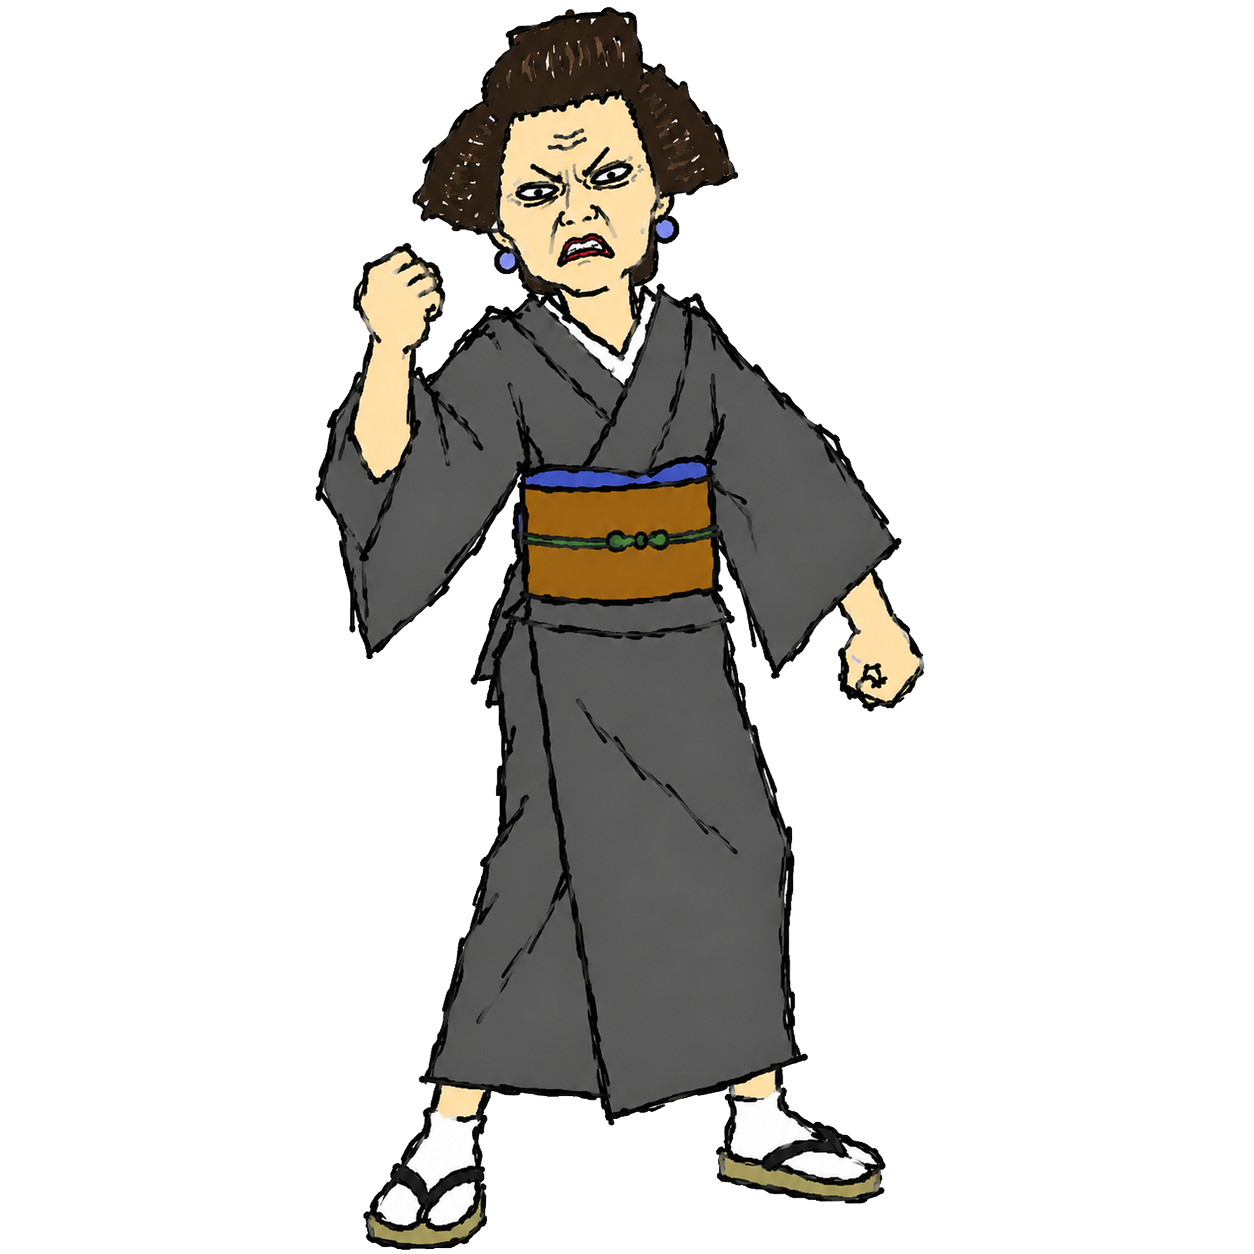
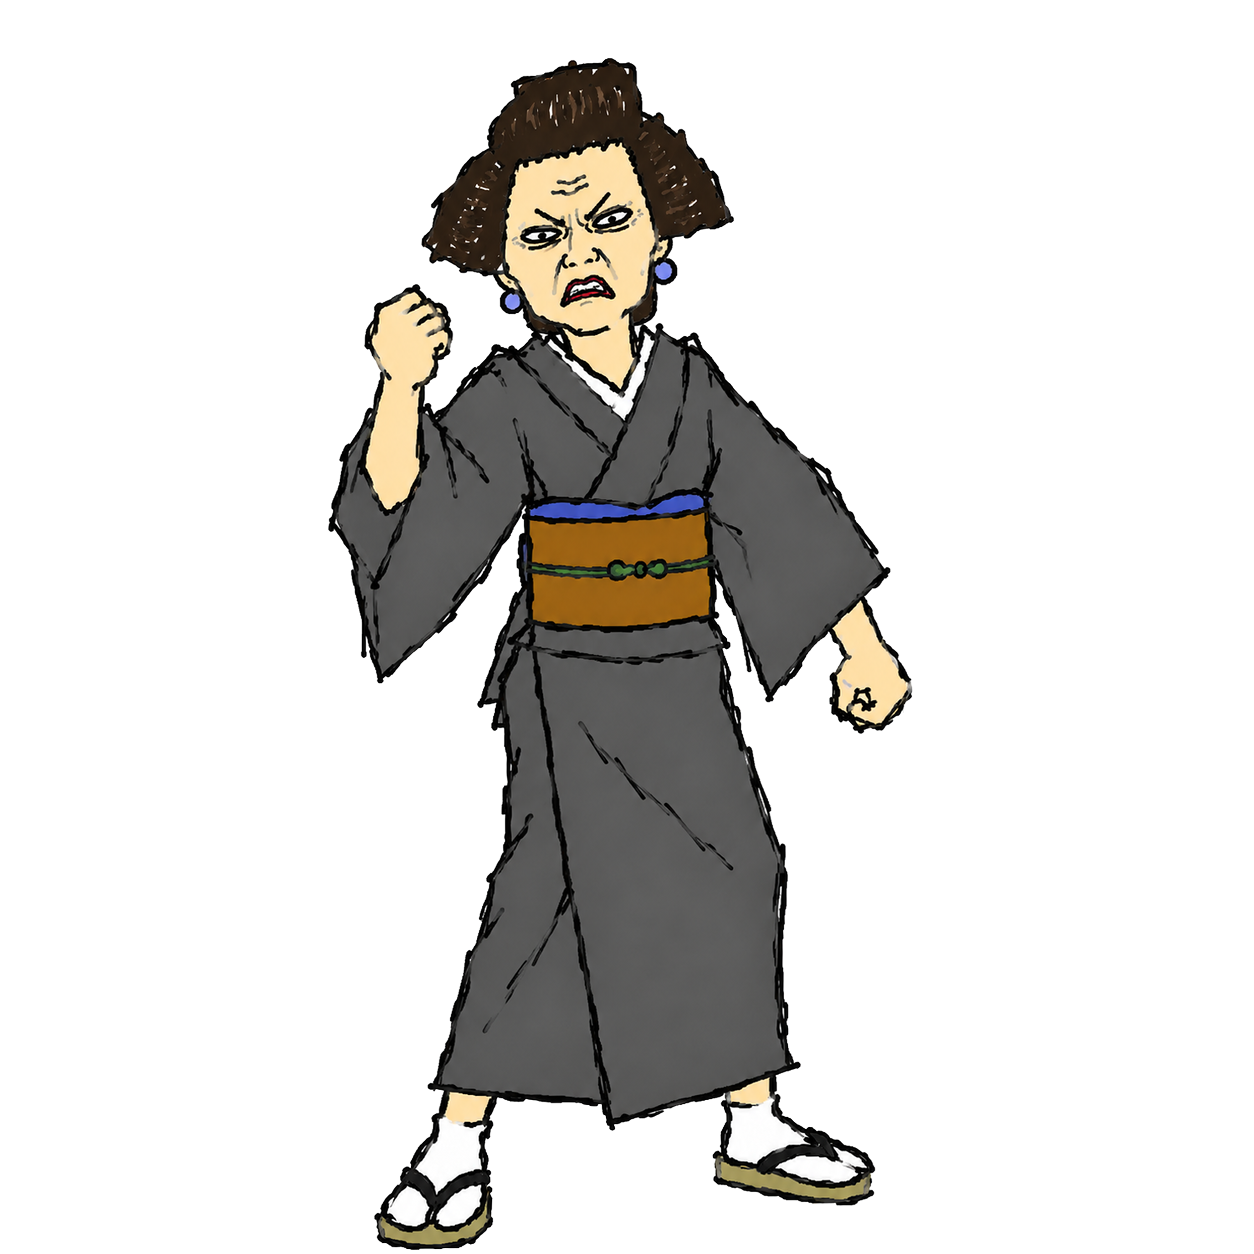
debt-commission: 定春、登勢、新八的第一章表情圖
- 定春 smile／cry／smug、登勢 smile／thinking／smug／annoyed（叉腰）／sit_serious／sit_talking、新八 broken（和 panic 同一張）
- 生成原圖移到 art_src/expressions/（.gdignore，不進 Web 匯出）
- fit_expressions.gd：單張表情可寫 {"file", "rescale"}，給把角色畫得比其他張大的坐姿用，並排除在身高中位數之外
- EXPRESSIONS.md 新增 sit_serious、sit_talking 與 rescale 說明

Changed region(s): [[0.2488, 0.0, 0.7464, 1.0], [0.4354, 0.6842, 0.4665, 0.7464]]

diff --git a/docs/story-telling-game/EXPRESSIONS.md b/docs/story-telling-game/EXPRESSIONS.md
@@ -1,6 +1,6 @@
 # 角色表情清單（美術製作）
 
-更新：2026-09-28。劇本用表情 id 標出角色當下的臉（`char("kagura", "angry", "right")` 或台詞後面加 `[#angry]`），遊戲依 id 換成那張圖；還沒有圖的表情就先顯示角色原本那張。這份清單列出有哪些表情、每個角色要畫哪些。
+更新：2026-09-29。劇本用表情 id 標出角色當下的臉（`char("kagura", "angry", "right")` 或台詞後面加 `[#angry]`），遊戲依 id 換成那張圖；還沒有圖的表情就先顯示角色原本那張。這份清單列出有哪些表情、每個角色要畫哪些。
 
 ## 表情 id
 
@@ -24,6 +24,8 @@
 | `broken` | 崩潰 | 被打擊到石化、靈魂出竅 | 白眼或空洞眼、全身發白、可加裂痕 |
 | `nosepick` | 挖鼻孔 | 裝傻、不當一回事、聽人說教時 | 手指挖鼻孔、死魚眼 |
 | `mock` | 嘲笑 | 指著人大笑、看別人出糗 | 指著對方、張嘴大笑、眯眼 |
+| `sit_serious` | 正坐（認真） | 坐著主持或旁聽，例如登勢主持家庭會議 | 跪坐、雙手放膝上、表情嚴肅 |
+| `sit_talking` | 坐著說話 | 坐著閒聊、邊抽菸邊插話 | 盤腿或側坐、手托臉頰、可拿菸 |
 
 ## 各角色要畫的表情
 
@@ -31,14 +33,14 @@
 
 | 角色 | 在第一章的功能 | 第一批（先畫） | 第二批 |
 |---|---|---|---|
-| 新八 `shinpachi` | 主角、吐槽役 | ✓`shout`、✓`angry`、✓`panic`、✓`thinking`、**還缺 `broken`**（薪水與定春的反轉、Game Over） | ✓`nervous`、`surprised`、`smile`、`cry`、`serious` |
+| 新八 `shinpachi` | 主角、吐槽役 | ✓`shout`、✓`angry`、✓`panic`、✓`thinking`、✓`broken`（和 `panic` 同一張「靈魂出竅」；薪水與定春的反轉、Game Over） | ✓`nervous`、`surprised`、`smile`、`cry`、`serious` |
 | 銀時 `gintoki` | 裝傻、事件製造者 | ✓`smug`、✓`sweat`、✓`annoyed`（挖鼻孔那張，回合中程式固定用它）、✓`panic`（和 `nervous` 同一張）、✓`serious`（拿木刀那張） | ✓`angry`、✓`nosepick`、✓`nervous`、`smile`、`surprised`、`shout` |
 | 神樂 `kagura` | 嫁禍給定春、提示員 | ✓`smile`、✓`smug`、✓`sweat`（和 `nervous` 同一張）、✓`angry` | ✓`annoyed`（鄙視）、✓`mock`（嘲笑）、✓`nosepick`、`cry`（假哭）、`surprised`、`panic` |
-| 登勢 `otose` | 家庭會議的裁判 | ✓`annoyed`（抽菸不耐煩）、✓`angry`、✓`serious` | `smile` |
-| 定春 `sadaharu` | 被冤枉的證人、真兇 | **還缺** `smile`（汪）、`cry`（被冤枉）、`smug`（舔嘴，真兇） | `angry`（咬人） |
+| 登勢 `otose` | 家庭會議的裁判 | ✓`annoyed`（叉腰不耐煩）、✓`angry`、✓`serious`、✓`sit_serious`（正坐主持）、✓`sit_talking`（坐著抽菸） | ✓`smile`、✓`thinking`、✓`smug` |
+| 定春 `sadaharu` | 被冤枉的證人、真兇 | ✓`smile`（汪）、✓`cry`（被冤枉）、✓`smug`（得意，真兇） | `angry`（咬人） |
 | 伊莉莎白 `elisabeth` | 第四面牆 | 不用（一直是 `neutral`，舉空白牌；牌上的字由遊戲疊上去） | `surprised` |
 
-第一批還缺 4 張：新八 `broken`，定春 `smile`、`cry`、`smug`。
+第一批已全部有圖。
 
 ## 生成的 prompt
 
@@ -53,7 +55,7 @@ Please redraw the attached image in the most clumsy, messy, and hopelessly pathe
 生成的圖是白底，大小、位置也和角色原本那張不一樣，交給 `tools/fit_expressions.gd` 處理。以下路徑都在 `prototypes/debt-commission/`：
 
 1. 把生成的原圖放進 `art_src/expressions/`。這個資料夾有 `.gdignore`，Godot 不會匯入，也不會打包進遊戲。
-2. 在 `art_src/expressions/fit.json` 那個角色底下，把表情 id 對到檔名。兩個表情可以用同一張圖。
+2. 在 `art_src/expressions/fit.json` 那個角色底下，把表情 id 對到檔名。兩個表情可以用同一張圖。生成圖把角色畫得比其他張大或小時（常見於坐姿），寫成 `{"file": "odosei-sit-serious.png", "rescale": 0.66}`，這張另外再縮放 `rescale` 倍，也不列入身高比的計算；數值用頭的大小和站姿比對。
 3. 執行 `godot --headless --path . --script res://tools/fit_expressions.gd`，它會：
    - 去掉從邊緣連進來的白色（衣服裡的白色不動）；
    - 把角色縮放到和原本那張同樣大小（預設用身高比，原圖有道具或特殊姿勢時在 `fit.json` 寫 `scale`，例如神樂原圖有傘又在跳，用頭的大小對齊，`scale` 1.0）；
